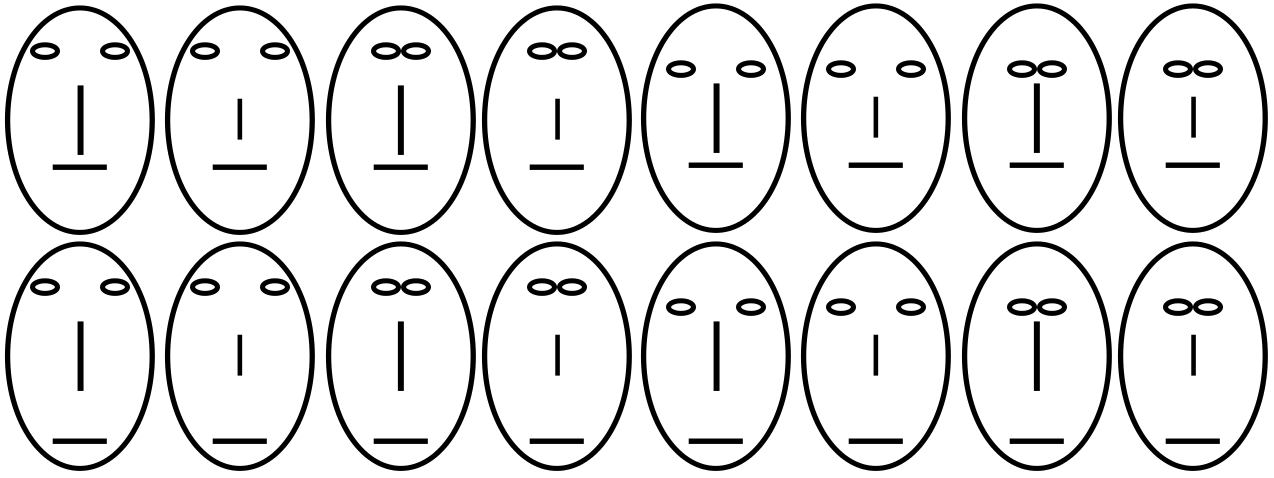
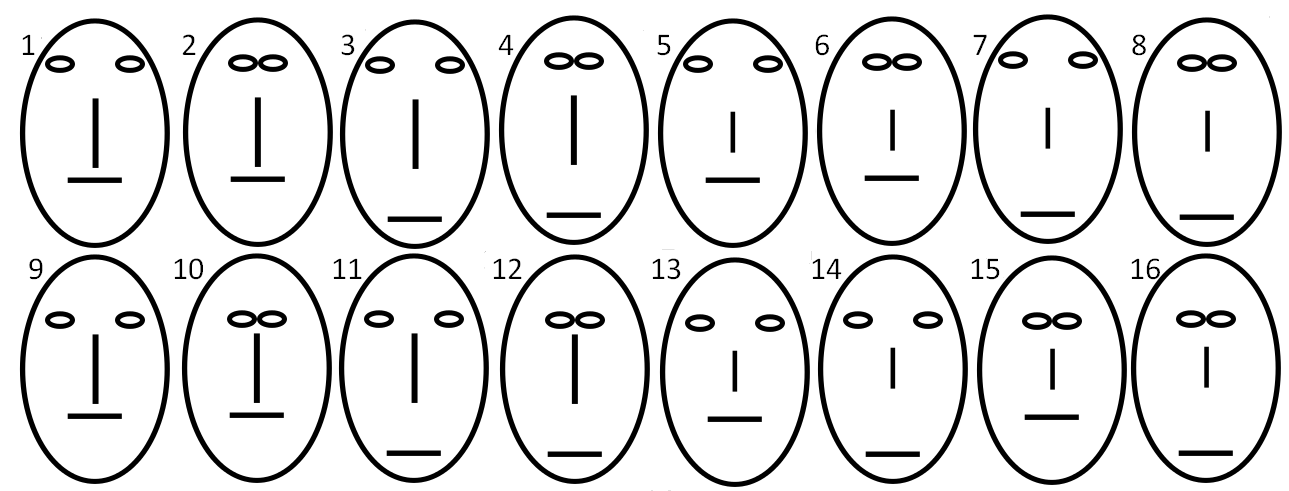
update Figure 1

diff --git a/TODO.md b/TODO.md
@@ -1,9 +1,22 @@
 Write the paper, holy shit, write the paper.
 
 1. Experiments & analysis.
-  - ~~Method~~
-  - Figure of stimulus (with index).
-  - Analysis: half done. 
+  1. Experiment 1.
+    - ~~Method~~
+    - Figure of stimulus (with index).
+    - Analysis:
+      1. ~~Reliability~~
+      2. ~~Validability~~
+      3. ~~MDS.~~
+      4. Duration
+  2. Experiment 2.
+    - Method.
+    - Figure of stimulus.
+    - Analysis:
+      1. Reliability
+      2. Validability
+      3. MDS.
+      4. Duration
 2. Introduction.
   - What's the problem with traditional tasks
   - What's the new task
